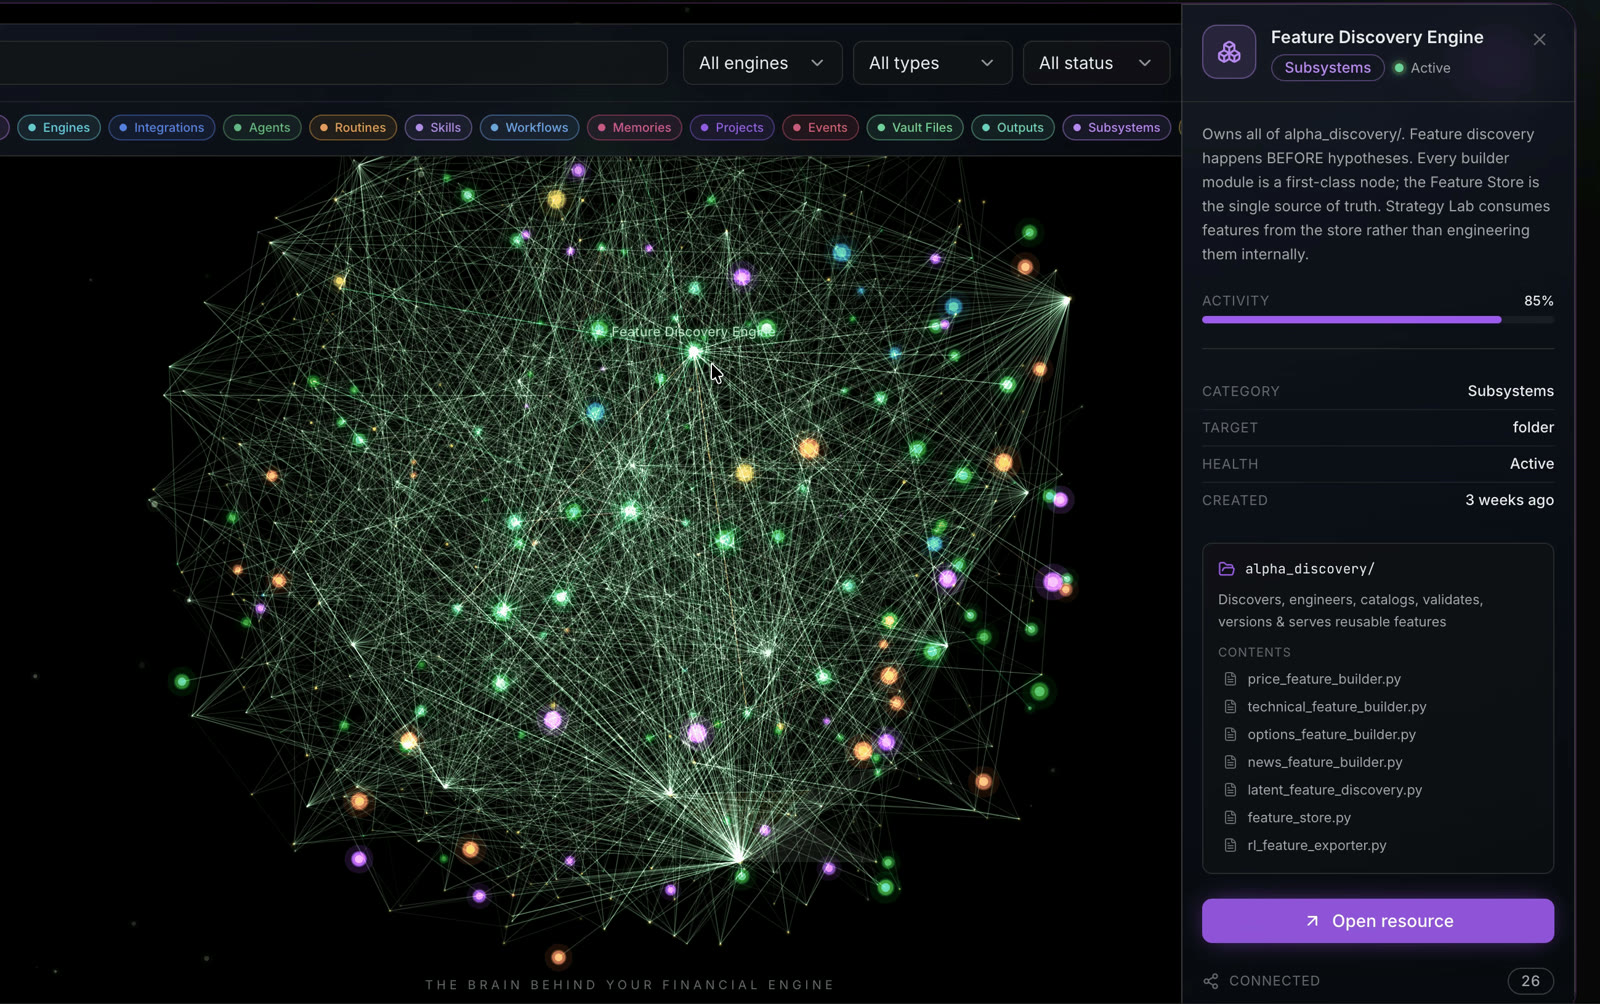
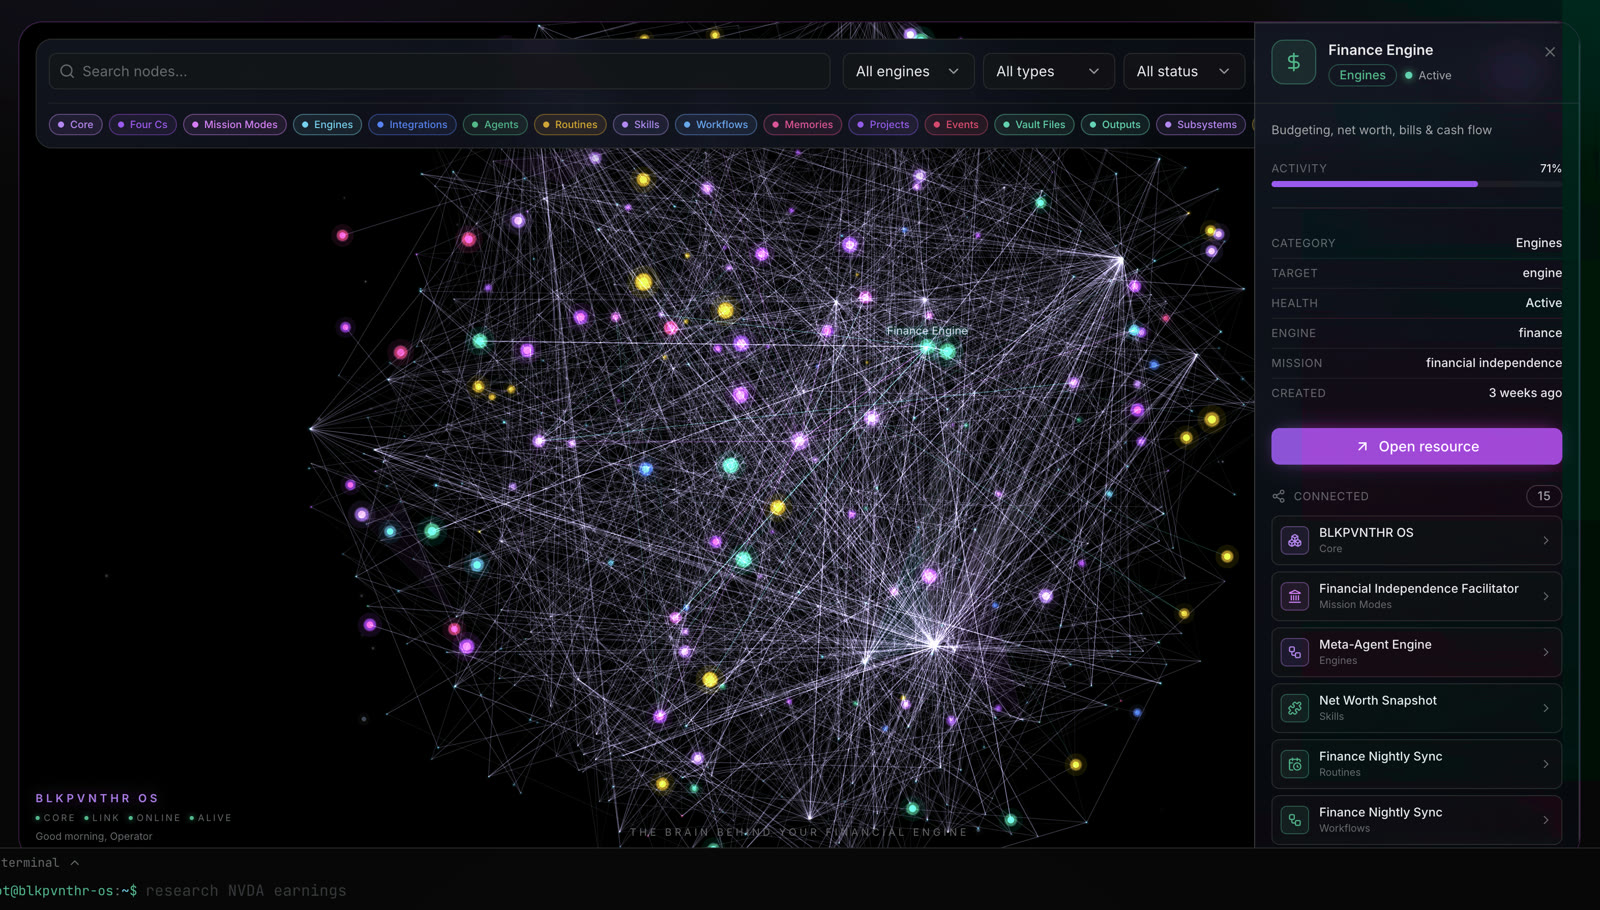
feat: add 3 placeholder cards below the Brain row; regen traceback still
- Regenerates the Trace card from images/the-traceback.png (same source).
- Adds a second grid of 3 dashed-frame placeholder cards for content TBD;
  fill image/label/heading/body and drop .is-placeholder to activate.

NOTE: placeholders are intentionally unfinished — not yet deployed.

Claude-Session: https://claude.ai/code/session_01X2o3PNQEFH5fjLhuMbV9vx

diff --git a/site/index.html b/site/index.html
@@ -590,6 +590,37 @@
               </article>
             </div>
 
+            <!-- Placeholder row — fill in image (data-full for the lightbox),
+                 label, heading, and body per card, then remove is-placeholder. -->
+            <div class="grid grid-3 os-brain-more">
+              <article class="card reveal is-placeholder">
+                <div class="card-media card-media--empty">
+                  <span class="card-media-hint">Add image</span>
+                </div>
+                <p class="card-index">Label</p>
+                <h4 class="card-title">Card heading</h4>
+                <p class="card-body">Replace this with the card copy.</p>
+              </article>
+
+              <article class="card reveal is-placeholder">
+                <div class="card-media card-media--empty">
+                  <span class="card-media-hint">Add image</span>
+                </div>
+                <p class="card-index">Label</p>
+                <h4 class="card-title">Card heading</h4>
+                <p class="card-body">Replace this with the card copy.</p>
+              </article>
+
+              <article class="card reveal is-placeholder">
+                <div class="card-media card-media--empty">
+                  <span class="card-media-hint">Add image</span>
+                </div>
+                <p class="card-index">Label</p>
+                <h4 class="card-title">Card heading</h4>
+                <p class="card-body">Replace this with the card copy.</p>
+              </article>
+            </div>
+
             <div class="os-brain-cta">
               <a class="btn btn-secondary" href="https://os.blkpvnthr.com/os" rel="noopener">
                 Check out the OS

diff --git a/site/assets/styles.css b/site/assets/styles.css
@@ -990,6 +990,30 @@ hr {
   object-position: center top;
 }
 
+/* Second (placeholder) card row, stacked below the first with a matching gap. */
+.os-brain-more {
+  margin-top: 1px;
+}
+
+/* Empty media frame for not-yet-filled cards: dashed so it clearly reads as a
+   placeholder, with a centred hint and no zoom affordance. */
+.os-brain .card-media--empty {
+  cursor: default;
+  border-style: dashed;
+  border-color: var(--line);
+  display: flex;
+  align-items: center;
+  justify-content: center;
+}
+
+.os-brain .card-media--empty .card-media-hint {
+  font-family: var(--font-mono);
+  font-size: var(--text-2xs);
+  letter-spacing: 0.14em;
+  text-transform: uppercase;
+  color: var(--ink-faint);
+}
+
 /* Fullscreen lightbox — a single overlay reused for whichever still is clicked.
    Hidden from layout and AT until opened; JS toggles .is-open. */
 .lightbox {
